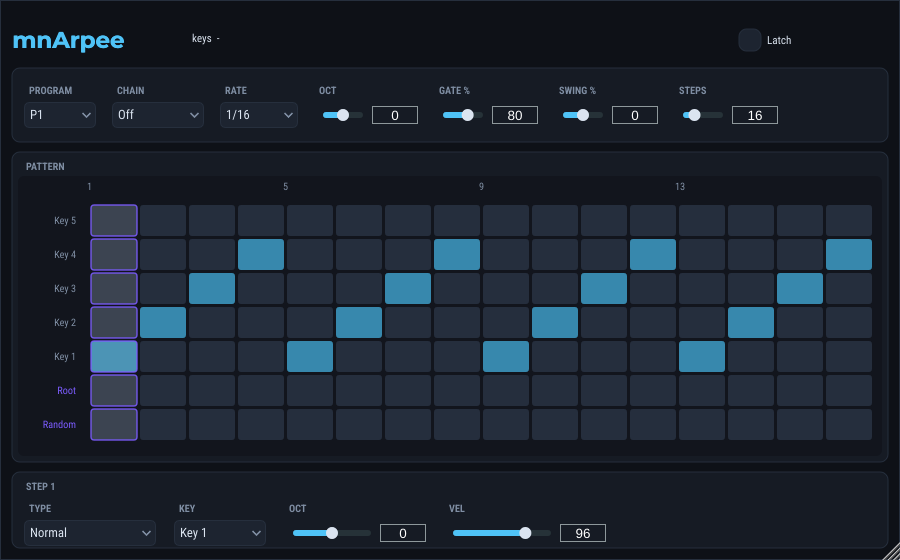
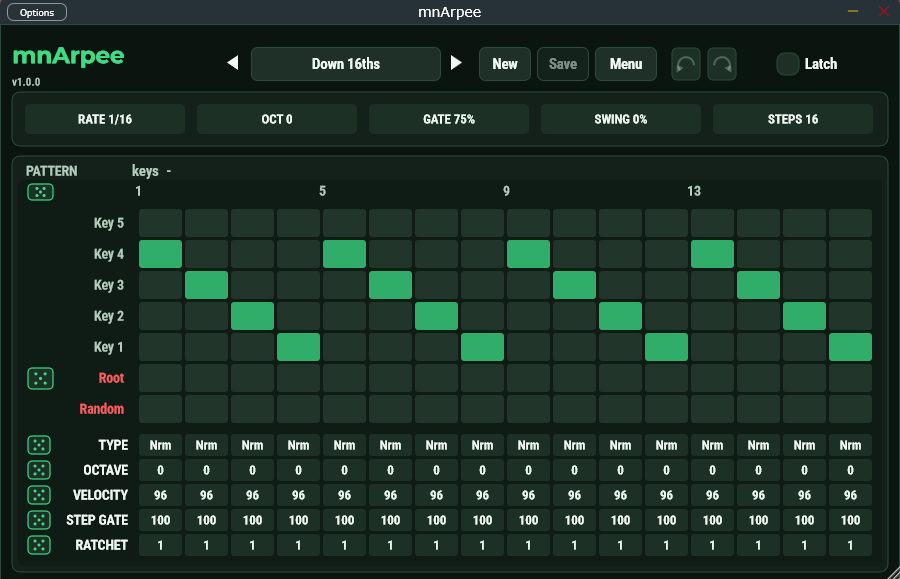
A current screenshot in the README
ui-shot.png was an old picture of an earlier UI (blue, PROGRAM / CHAIN) and was not used
anywhere. It is the current window now (Down 16ths) and the README shows it.

diff --git a/README.md b/README.md
@@ -3,6 +3,8 @@
 Pattern arpeggiator based on the BlueArp manual (VST3 + Standalone), JUCE 9 + C++23.
 Held notes are sorted by pitch before they reach the engine.
 
+![The mnArpee window with the Down 16ths preset](ui-shot.png)
+
 ## Features (MVP)
 
 - No arp modes: the step matrix draws the whole pattern. Rows, bottom to top: Random, Root, Key 1 .. Key 5
